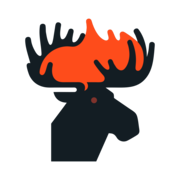
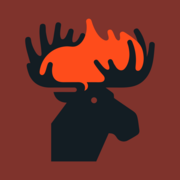
hero moose, with-background marks, asset() base paths, right-arrow CTA

diff --git a/components/Hero.tsx b/components/Hero.tsx
@@ -1,14 +1,15 @@
 import Link from "next/link";
-import { ArrowDown, ArrowUpRight } from "@phosphor-icons/react/dist/ssr";
+import { ArrowRight, ArrowUpRight } from "@phosphor-icons/react/dist/ssr";
 import MooseMark from "./MooseMark";
 import HeroReveal from "./HeroReveal";
+import { asset } from "@/lib/assets";
 import { SITE } from "@/lib/data";
 
 export default function Hero() {
   return (
     <section id="top" aria-labelledby="hero-heading">
       <div className="mx-auto max-w-6xl px-5 pb-16 pt-14 md:px-8 md:pb-24 md:pt-20">
-        <div className="grid items-end gap-12 lg:grid-cols-12 lg:gap-8">
+        <div className="grid gap-12 lg:grid-cols-12 lg:gap-8">
           <div className="lg:col-span-8">
             <HeroReveal delay={0}>
               <p className="mono-label text-muted">
@@ -36,7 +37,7 @@ export default function Hero() {
             <HeroReveal delay={0.24}>
               <div className="mt-8 flex flex-wrap gap-3">
                 <Link href="/projects" className="cta cta-primary font-medium">
-                  View projects <ArrowDown size={14} aria-hidden />
+                  View projects <ArrowRight size={14} aria-hidden />
                 </Link>
                 <a href={SITE.github.href} target="_blank" rel="noreferrer" className="cta">
                   GitHub <ArrowUpRight size={14} aria-hidden />
@@ -45,20 +46,13 @@ export default function Hero() {
             </HeroReveal>
           </div>
 
-          <HeroReveal delay={0.14} className="justify-self-center lg:col-span-4 lg:justify-self-end">
-            <div
-              className="relative border border-rule bg-raised/40 p-10 md:p-12"
-              role="presentation"
-            >
-              <span
-                aria-hidden="true"
-                className="absolute left-3 top-3 h-1.5 w-1.5 bg-accent"
-              />
-              <MooseMark size={148} glitch className="mx-auto block" />
-              <p className="mono-label mt-8 text-faint" aria-hidden="true">
-                EM-01 · personal build archive
-              </p>
-            </div>
+          <HeroReveal delay={0.14} className="flex items-stretch justify-center lg:col-span-4 lg:justify-end">
+            {/* eslint-disable-next-line @next/next/no-img-element */}
+            <img
+              src={asset("/images/brand/embermoose_large_nobackground.svg")}
+              alt=""
+              className="h-72 w-auto object-contain object-right-bottom lg:h-full"
+            />
           </HeroReveal>
         </div>
       </div>

diff --git a/app/projects/[slug]/page.tsx b/app/projects/[slug]/page.tsx
@@ -2,9 +2,9 @@ import type { Metadata } from "next";
 import Link from "next/link";
 import { notFound } from "next/navigation";
 import Breadcrumbs from "@/components/Breadcrumbs";
-import Image from "next/image";
 import ProjectArt from "@/components/ProjectArt";
 import TiltCard from "@/components/TiltCard";
+import { asset } from "@/lib/assets";
 import InfoTip from "@/components/InfoTip";
 import { CATEGORY_LABELS, MOD_NOTES, PROJECTS } from "@/lib/data";
 import { ArrowRight, ArrowUpRight, Code, Play } from "@phosphor-icons/react/dist/ssr";
@@ -119,14 +119,13 @@ export default async function ProjectPage({
       <figure className="border-y border-rule bg-raised/30">
         <div className="mx-auto max-w-4xl px-5 py-10 md:px-8 md:py-14">
           <TiltCard max={3}>
+          {/* eslint-disable-next-line @next/next/no-img-element */}
           {project.shot ? (
-            <Image
-              src={project.shot.src}
+            <img
+              src={asset(project.shot.src)}
               alt={project.shot.alt}
               width={1600}
               height={900}
-              unoptimized
-              priority
               className="h-auto w-full border border-rule"
             />
           ) : (

diff --git a/components/ProjectPanel.tsx b/components/ProjectPanel.tsx
@@ -2,7 +2,7 @@ import Link from "next/link";
 import type { Project } from "@/lib/data";
 import { CATEGORY_LABELS } from "@/lib/data";
 import { ArrowRight, Play, Code } from "@phosphor-icons/react/dist/ssr";
-import Image from "next/image";
+import { asset } from "@/lib/assets";
 import ProjectArt from "./ProjectArt";
 import TiltCard from "./TiltCard";
 import InfoTip from "./InfoTip";
@@ -112,13 +112,14 @@ export default function ProjectPanel({ project, index, flip = false, compact = f
             href={`/projects/${project.slug}`}
             className="block border border-rule bg-raised/40 no-underline"
           >
+            {/* eslint-disable-next-line @next/next/no-img-element */}
             {project.shot ? (
-              <Image
-                src={project.shot.src}
+              <img
+                src={asset(project.shot.src)}
                 alt={project.shot.alt}
                 width={1600}
                 height={900}
-                unoptimized
+                loading="lazy"
                 className="h-auto w-full object-cover"
               />
             ) : (

diff --git a/components/MooseMark.tsx b/components/MooseMark.tsx
@@ -1,33 +1,33 @@
-import Image from "next/image";
+import { asset } from "@/lib/assets";
 
 type Props = {
   size?: number;
   className?: string;
   glitch?: boolean;
   large?: boolean;
+  withBg?: boolean;
 };
 
 export default function MooseMark({
   size = 28,
   className = "",
   glitch = false,
-  large = false,
+  withBg = false,
 }: Props) {
   return (
     <span
-      className={`relative inline-block ${className} ${glitch ? "moose-mark" : ""}`}
+      className={`relative inline-block shrink-0 ${className} ${glitch ? "moose-mark" : ""}`}
       style={{ width: size, height: size }}
       aria-hidden="true"
     >
-      <Image
-        src="/images/brand/embermoose_small_nobackground.svg"
+      {/* eslint-disable-next-line @next/next/no-img-element */}
+      <img
+        src={asset(withBg ? "/images/brand/embermoose_small.svg" : "/images/brand/embermoose_small_nobackground.svg")}
         alt=""
         width={size}
         height={size}
-        priority={size > 100}
         className="h-full w-full object-contain"
       />
-      {large && null}
     </span>
   );
 }

diff --git a/app/gallery/page.tsx b/app/gallery/page.tsx
@@ -1,9 +1,9 @@
 import type { Metadata } from "next";
 import Link from "next/link";
 import PageHeader from "@/components/PageHeader";
-import Image from "next/image";
 import ProjectArt from "@/components/ProjectArt";
 import TiltCard from "@/components/TiltCard";
+import { asset } from "@/lib/assets";
 import { PROJECTS } from "@/lib/data";
 
 export const metadata: Metadata = {
@@ -44,13 +44,14 @@ export default function GalleryPage() {
                   </span>
                 </span>
                 <span className="block">
+                  {/* eslint-disable-next-line @next/next/no-img-element */}
                   {project.shot ? (
-                    <Image
-                      src={project.shot.src}
+                    <img
+                      src={asset(project.shot.src)}
                       alt={project.shot.alt}
                       width={800}
                       height={450}
-                      unoptimized
+                      loading="lazy"
                       className="h-auto w-full object-cover"
                     />
                   ) : (

diff --git a/components/FooterWordmark.tsx b/components/FooterWordmark.tsx
@@ -1,6 +1,6 @@
 "use client";
 
-import Image from "next/image";
+import { asset } from "@/lib/assets";
 import { useRef, useState } from "react";
 import MooseMark from "./MooseMark";
 
@@ -57,8 +57,9 @@ export default function FooterWordmark() {
                 animationDelay: `${d.delay}s`,
               }}
             >
-              <Image
-                src="/images/brand/embermoose_fall.svg"
+              {/* eslint-disable-next-line @next/next/no-img-element */}
+              <img
+                src={asset("/images/brand/embermoose_fall.svg")}
                 alt=""
                 width={SIZE}
                 height={SIZE}

diff --git a/components/SiteNav.tsx b/components/SiteNav.tsx
@@ -46,7 +46,7 @@ export default function SiteNav() {
         className="mx-auto flex max-w-6xl items-center justify-between px-5 py-3 md:px-8"
       >
         <Link href="/" className="flex items-center gap-2.5 text-ink no-underline hover:text-accent">
-          <MooseMark size={26} glitch />
+          <MooseMark size={26} glitch withBg />
           <span className="font-display text-lg font-bold tracking-tight">
             Ember&nbsp;Moose
           </span>

diff --git a/lib/assets.ts b/lib/assets.ts
@@ -1,0 +1,10 @@
+/**
+ * Asset path helper. The GitHub Pages build of the /embermoose/ path
+ * needs the base prepended (next/image skips it for unoptimized images);
+ * root deployments (bogdanjanjic04.github.io, embermoose.github.io) use "".
+ */
+export const ASSET_BASE = process.env.PAGES_BUILD === "1" ? "/embermoose" : "";
+
+export function asset(path: string): string {
+  return `${ASSET_BASE}${path}`;
+}
